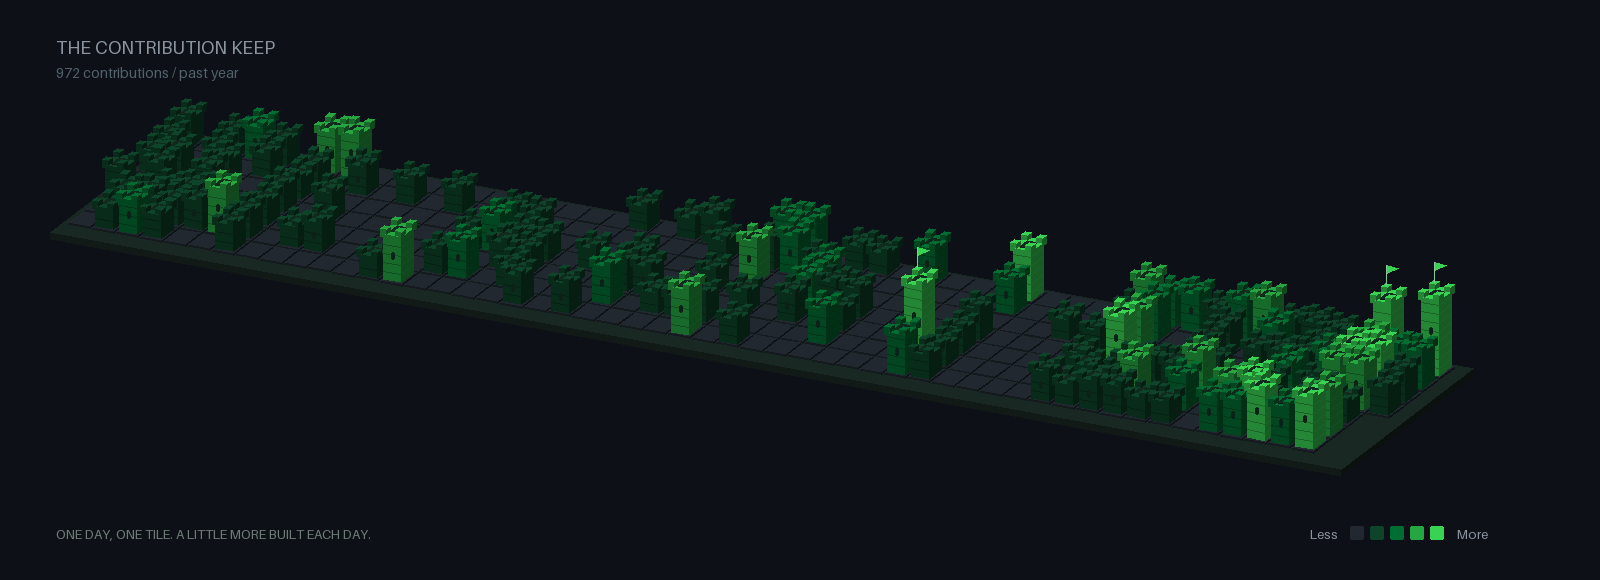
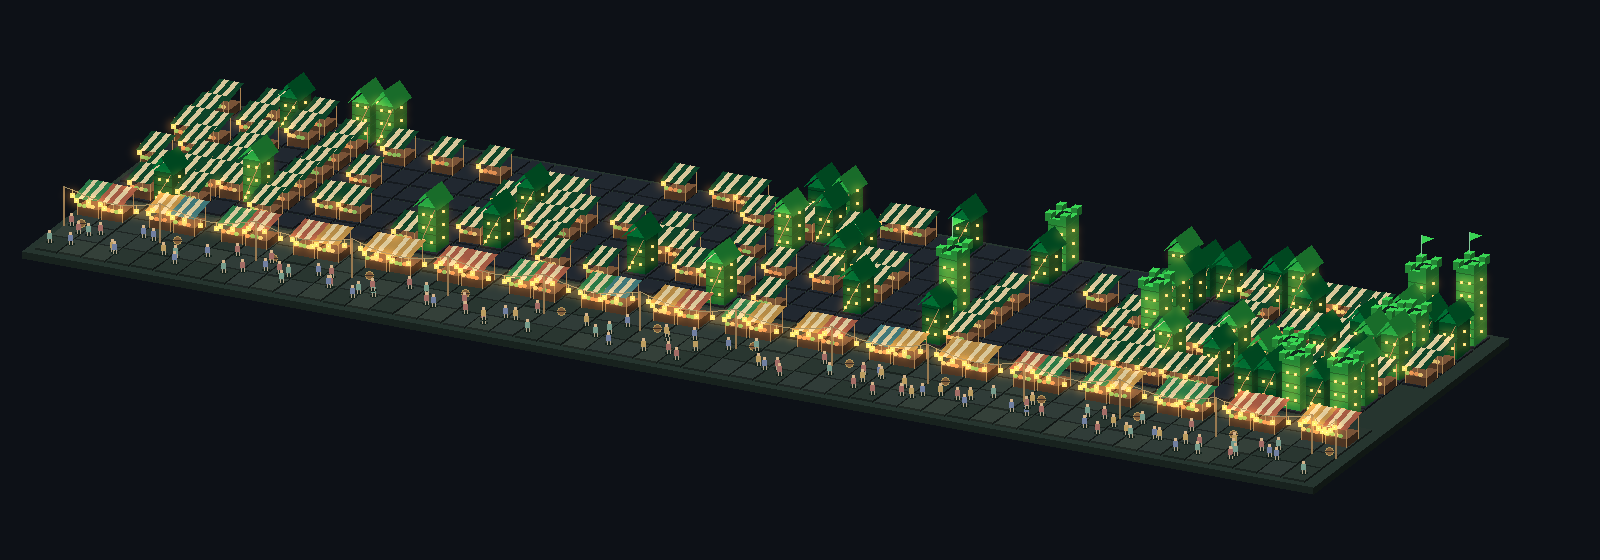
Light up the medieval contribution market

diff --git a/scripts/skyline.py b/scripts/skyline.py
@@ -1,14 +1,15 @@
-"""Render an original, deterministic contribution skyline as a pixel-art PNG."""
+"""Render an original contribution-powered medieval night market as a PNG."""
 
 import argparse
 import json
 import math
 import os
+import random
 from pathlib import Path
 import subprocess
 import urllib.request
 
-from PIL import Image, ImageDraw
+from PIL import Image, ImageChops, ImageDraw, ImageFilter
 
 QUERY = """
 query($login: String!) {
@@ -52,18 +53,39 @@ def render(data, output):
     weeks = data["weeks"]
     if not weeks:
         raise ValueError("Contribution calendar is empty")
-    # The calendar keeps GitHub's 53-week / seven-day structure. Every
-    # tower is a real day; no ornamental towers invent contribution data.
-    width, height = 1600, 580
+    # Daily buildings keep the calendar structure; the foreground market
+    # and its inhabitants are decorative, rather than extra activity days.
+    width, height = 1600, 560
     image = Image.new("RGB", (width, height), "#0d1117")
     draw = ImageDraw.Draw(image)
+    lights = []
+    rng = random.Random(824)
     greens = ["#212830", "#0e4429", "#006d32", "#26a641", "#39d353"]
     levels = {name: i for i, name in enumerate([
         "NONE", "FIRST_QUARTILE", "SECOND_QUARTILE", "THIRD_QUARTILE", "FOURTH_QUARTILE"
     ])}
 
     def point(u, v, z=0):
-        return (round(185 + u * 24 - v * 17), round(135 + u * 4.4 + v * 13 - z))
+        return (round(220 + u * 24 - v * 17), round(105 + u * 4.4 + v * 13 - z))
+
+    def lamp(x, y, size=2):
+        draw.rectangle((x - size, y - size, x + size, y + size), fill="#ffc66d")
+        draw.point((x, y), fill="#fff2bd")
+        lights.append((x, y, size))
+
+    def stall(u, v, color):
+        block(u, v, 0.85, 0.7, 0, 8, "#795337")
+        for du, dv in [(0, 0), (0.85, 0), (0, 0.7), (0.85, 0.7)]:
+            draw.line([point(u + du, v + dv, 0), point(u + du, v + dv, 23)], fill="#ab8251", width=1)
+        for stripe in range(5):
+            a, b = stripe * 0.2, (stripe + 1) * 0.2
+            draw.polygon([point(u + a - 0.08, v - 0.08, 25), point(u + b - 0.08, v - 0.08, 25),
+                          point(u + b - 0.08, v + 0.85, 19), point(u + a - 0.08, v + 0.85, 19)],
+                         fill=color if stripe % 2 == 0 else "#d8c79b")
+        for j in range(4):
+            x, y = point(u + j * 0.18 + 0.1, v + 0.72, 10)
+            draw.ellipse((x - 2, y - 2, x + 2, y + 1), fill=rng.choice(["#df8e51", "#89b658", "#e1be6e"]))
+        lamp(*point(u, v + 0.75, 15))
 
     def shade(color, factor):
         return tuple(round(int(color[i:i + 2], 16) * factor) for i in (1, 3, 5))
@@ -77,9 +99,11 @@ def render(data, output):
         draw.polygon([b, c, bottom_c, bottom_b], fill=shade(color, 0.43))
         draw.polygon([a, b, c, e], fill=color)
 
-    draw.text((56, 36), "THE CONTRIBUTION KEEP", fill="#8b949e", font_size=18)
-    draw.text((56, 64), f"{data['totalContributions']:,} contributions / past year", fill="#52616a", font_size=14)
-    block(-0.4, -0.4, len(weeks) + 0.8, 7.8, -10, 7, "#1a2824")
+    block(-0.4, -0.4, len(weeks) + 0.8, 11.5, -10, 7, "#26352f")
+    # Cobblestone lanes extend in front of the contribution district.
+    for u in range(len(weeks)):
+        for v in range(7, 11):
+            block(u, v, 0.91, 0.91, -2, 2, rng.choice(["#303c38", "#293630", "#344039"]))
     days = [(i, day["weekday"], day) for i, week in enumerate(weeks) for day in week["contributionDays"]]
     peak = max([day["contributionCount"] for _, _, day in days] + [1])
     # Draw back to front so near towers correctly obscure distant ones.
@@ -91,29 +115,69 @@ def render(data, output):
         if not count:
             continue
         h = 10 + round(64 * math.sqrt(count / peak))
+        if level == 1:
+            stall(u, v, color)
+            continue
         block(u + 0.07, v + 0.07, 0.74, 0.74, 2, h, color)
         # Thin masonry courses on both visible stone faces.
         for z in range(10, h, 9):
             draw.line([point(u + 0.07, v + 0.81, z), point(u + 0.81, v + 0.81, z),
                        point(u + 0.81, v + 0.07, z)], fill=shade(color, 0.47), width=1)
-        # Overhanging parapet and four raised corner merlons.
-        block(u, v, 0.88, 0.88, h + 2, 3, color)
-        block(u + 0.22, v + 0.22, 0.44, 0.44, h + 5, 0, "#102b1d")
-        for du, dv in [(0, 0), (0.64, 0), (0, 0.64), (0.64, 0.64)]:
-            block(u + du, v + dv, 0.24, 0.24, h + 5, 5, color)
-        if h > 25:
-            x, y = point(u + 0.44, v + 0.82, h * 0.62)
-            draw.rounded_rectangle((x - 1, y - 4, x + 2, y + 3), radius=2, fill="#0d2118")
+        if level < 4:
+            # Steep green roofs over timber-framed merchant houses.
+            ridge_a, ridge_b = point(u + 0.44, v, h + 17), point(u + 0.44, v + 0.9, h + 17)
+            draw.polygon([point(u - 0.05, v, h + 2), ridge_a, ridge_b, point(u - 0.05, v + 0.9, h + 2)], fill=color)
+            draw.polygon([ridge_a, point(u + 0.94, v, h + 2), point(u + 0.94, v + 0.9, h + 2), ridge_b], fill=shade(color, 0.65))
+            draw.line([point(u + 0.1, v + 0.82, 3), point(u + 0.76, v + 0.82, h)], fill="#92754c", width=1)
+        else:
+            block(u, v, 0.88, 0.88, h + 2, 3, color)
+            block(u + 0.22, v + 0.22, 0.44, 0.44, h + 5, 0, "#102b1d")
+            for du, dv in [(0, 0), (0.64, 0), (0, 0.64), (0.64, 0.64)]:
+                block(u + du, v + dv, 0.24, 0.24, h + 5, 5, color)
+        for z in range(12, h, 13):
+            for du in [0.27, 0.62]:
+                lamp(*point(u + du, v + 0.82, z), size=1)
+            lamp(*point(u + 0.82, v + 0.4, z), size=1)
+        lamp(*point(u + 0.2, v + 0.86, 7), size=1)
         if level == 4 and count >= peak * 0.55:
             x, y = point(u + 0.1, v + 0.1, h + 10)
             draw.line((x, y, x, y - 20), fill="#83c99a", width=1)
             draw.polygon([(x + 1, y - 20), (x + 12, y - 17), (x + 1, y - 12)], fill="#39d353")
-    draw.text((56, 526), "ONE DAY, ONE TILE. A LITTLE MORE BUILT EACH DAY.", fill="#6e7c76", font_size=13)
-    draw.text((1310, 526), "Less", fill="#8b949e", font_size=13)
-    for i, color in enumerate(greens):
-        x = 1350 + i * 20
-        draw.rounded_rectangle((x, 526, x + 13, 539), radius=2, fill=color)
-    draw.text((1457, 526), "More", fill="#8b949e", font_size=13)
+    # A lively promenade: canopies, barrels, shoppers, and hanging lanterns.
+    for u in range(len(weeks)):
+        if u % 3 != 2:
+            stall(u, 7.7, rng.choice(["#287846", "#a35943", "#b58b46", "#3e7779"]))
+        if u % 4 == 0:
+            x, y = point(u + 0.6, 9, 0)
+            draw.ellipse((x - 4, y - 6, x + 4, y + 2), fill="#805d3a", outline="#b19459")
+            draw.line((x - 4, y - 2, x + 4, y - 2), fill="#382f27")
+        for _ in range(rng.randint(1, 3)):
+            x, y = point(u + rng.random(), 9 + rng.random() * 1.5)
+            draw.ellipse((x - 3, y - 1, x + 4, y + 2), fill="#17251f")
+            draw.line((x - 1, y - 3, x - 1, y + 1), fill="#b3a58a")
+            draw.line((x + 2, y - 3, x + 2, y + 1), fill="#b3a58a")
+            draw.rectangle((x - 2, y - 8, x + 2, y - 3), fill=rng.choice(["#759c8c", "#a46c65", "#bc9d60", "#707fa1"]))
+            draw.rectangle((x - 1, y - 11, x + 1, y - 9), fill="#d7b48a")
+    for u in range(0, len(weeks), 4):
+        end = min(u + 4, len(weeks))
+        for pos in [u, end]:
+            draw.line([point(pos, 9.2), point(pos, 9.2, 39)], fill="#977950", width=2)
+        cable = [point(u + (end - u) * t / 24, 9.2, 39 - 9 * math.sin(math.pi * t / 24)) for t in range(25)]
+        draw.line(cable, fill="#8c8260", width=1)
+        for t in range(2, 24, 4):
+            x, y = cable[t]
+            draw.line((x, y, x, y + 4), fill="#b09964")
+            lamp(x, y + 6)
+    # Soft amber bloom adds warmth without flattening the pixel geometry.
+    glow = Image.new("RGB", image.size)
+    glow_draw = ImageDraw.Draw(glow)
+    for x, y, size in lights:
+        # Hidden lamps should not shine through a foreground building.
+        if image.getpixel((x, y)) != (255, 242, 189):
+            continue
+        r = size + 3
+        glow_draw.ellipse((x - r, y - r, x + r, y + r), fill=(105, 60, 16))
+    image = ImageChops.add(image, glow.filter(ImageFilter.GaussianBlur(4)))
     output.parent.mkdir(parents=True, exist_ok=True)
     image.save(output, optimize=True)
 

diff --git a/README.md b/README.md
@@ -2,6 +2,4 @@
 
 [amritesh.xyz](https://amritesh.xyz) · Australia
 
-![The Contribution Keep: an isometric medieval fortress built from my GitHub activity, with green crenellated towers for active days.](assets/skyline.png)
-
-<sub>A little more built each day. Each tile is a day; greener, taller towers mean more contributions. Updated daily.</sub>
+![A medieval night market built from my GitHub contributions, with green rooftops, glowing windows, lantern-lit stalls, and shoppers.](assets/skyline.png)
